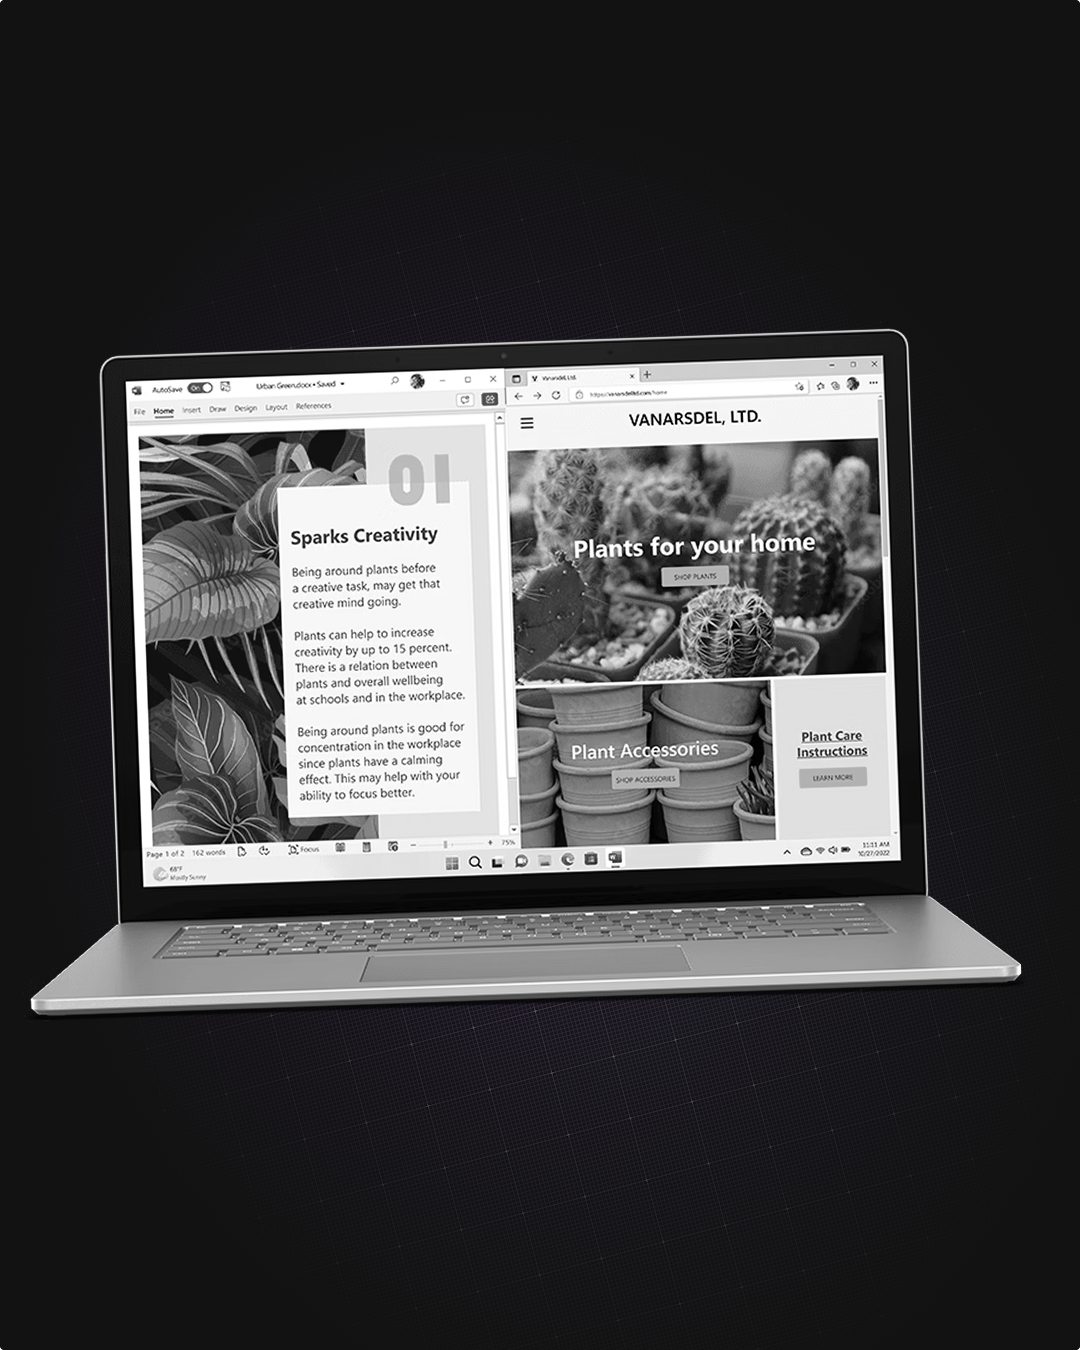
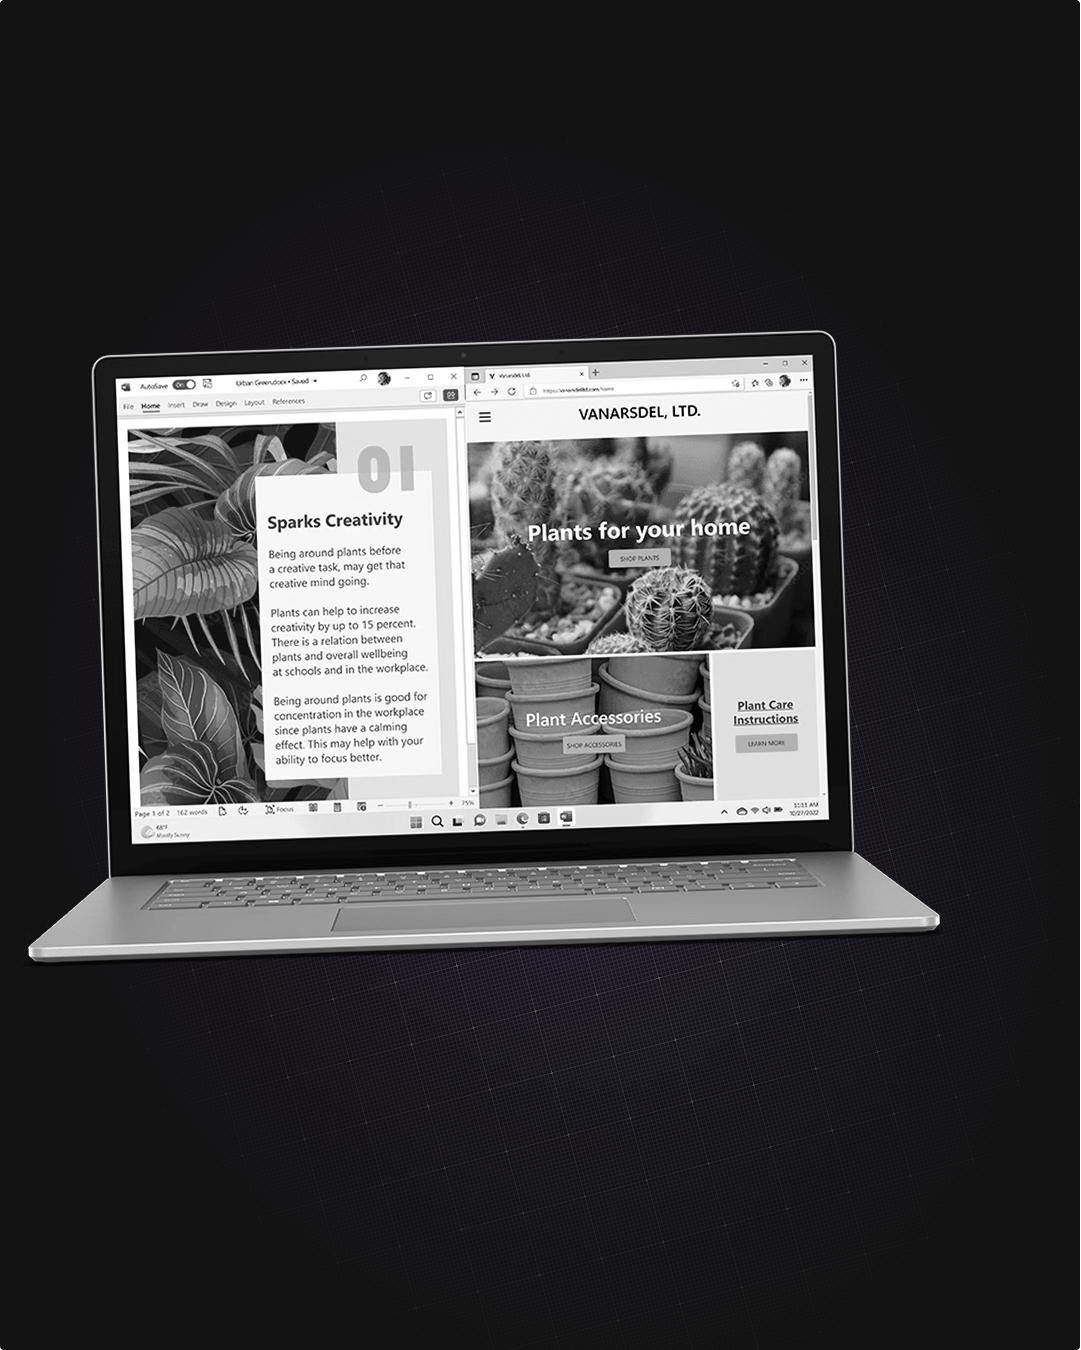
floating chips added service card 1

Changed region(s): [[0.0305, 0.2489, 0.9463, 0.7778]]

diff --git a/Components/CardStacking/Card.module.css b/Components/CardStacking/Card.module.css
@@ -20,6 +20,46 @@
   transform-origin: top;
   background-color: #121212;
   border: 1px solid #c7c7c73b;
+
+  position: relative;
+}
+
+.card::before,
+.card::after {
+  content: "";
+  position: absolute;
+  width: 120px;
+  height: 120px;
+  background-size: contain;
+  background-repeat: no-repeat;
+  z-index: 5;
+  animation: floatUpDown 4s ease-in-out infinite;
+  pointer-events: none;
+}
+
+.card::before {
+  background-image: url("/service/research-check.png");
+  top: 55%;
+  right: 32%;
+}
+
+.card::after {
+  background-image: url("/service/strategy-check.png");
+  top: 20%;
+  right: 2%;
+  animation-delay: 2s;
+}
+
+@keyframes floatUpDown {
+
+  0%,
+  100% {
+    transform: translateY(0px);
+  }
+
+  50% {
+    transform: translateY(-15px);
+  }
 }
 
 .card .body {
@@ -53,26 +93,8 @@
   margin-bottom: 0.75rem;
 }
 
-.card .cardImg {
+.cardImg {
   height: 100%;
   width: 100%;
   border-radius: 1.15rem;
-
-}
-
-.cardContainer .card .body .imageContainer {
-  position: relative;
-  width: 60%;
-  height: 100%;
-  border-radius: 25px;
-  overflow: hidden;
-}
-
-.cardContainer .card .body .imageContainer .inner {
-  width: 100%;
-  height: 100%;
-}
-
-.cardContainer .card .body .imageContainer img {
-  object-fit: cover;
 }

diff --git a/Components/CoreProblems/CoreProblemsNew.jsx b/Components/CoreProblems/CoreProblemsNew.jsx
@@ -16,7 +16,7 @@ const CoreProblemsNew = () => {
       </Fade>
 
       <ul className={styles.problemsContainer}>
-        <Fade cascade damping={0.15} duration={3000}>
+        <Fade cascade damping={0.15} triggerOnce duration={3000}>
           <li className={`${styles.box} ${styles.box1}`}>
             <h3 className={styles.boxCount}>1</h3>
             <p className={styles.boxText}>

diff --git a/Components/CardStacking/Card.jsx b/Components/CardStacking/Card.jsx
@@ -33,11 +33,11 @@ const Card = ({ i, title, description, src, progress, range, targetScale }) => {
           ></div>
         </div>
         <motion.img
-        style={{ scale: imageScale }}
+          style={{ scale: imageScale }}
           className={styles.cardImg}
           src={`/${src}`}
           alt="image"
-          />
+        />
       </div>
     </div>
   );
